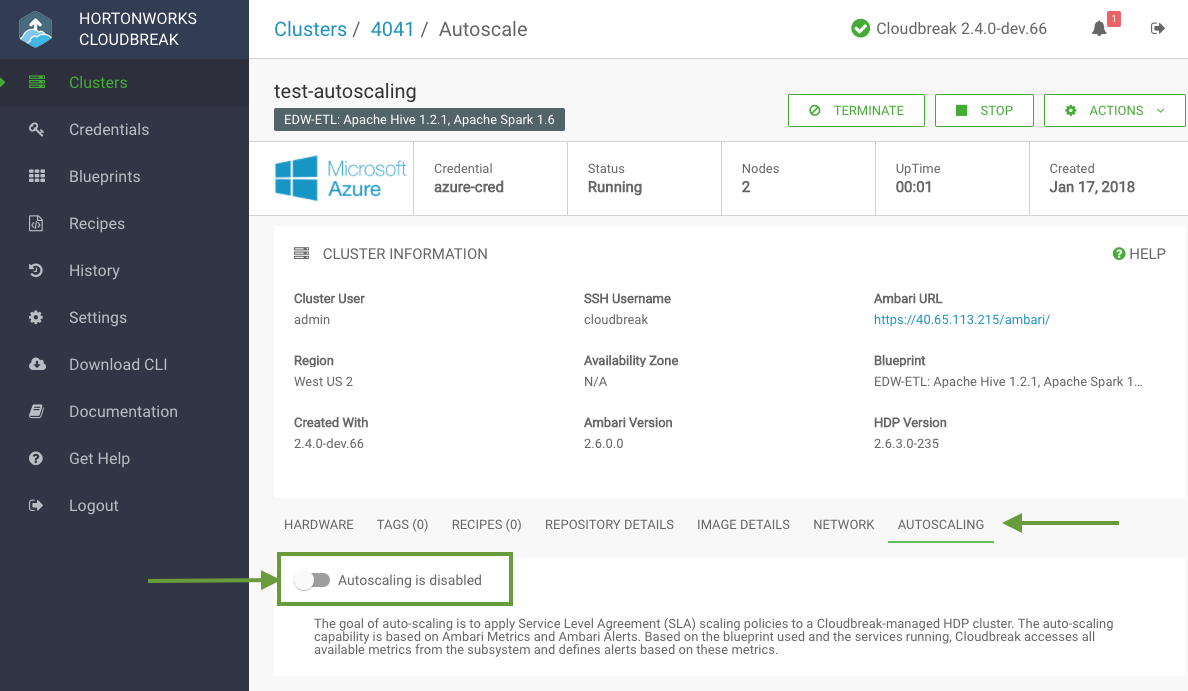
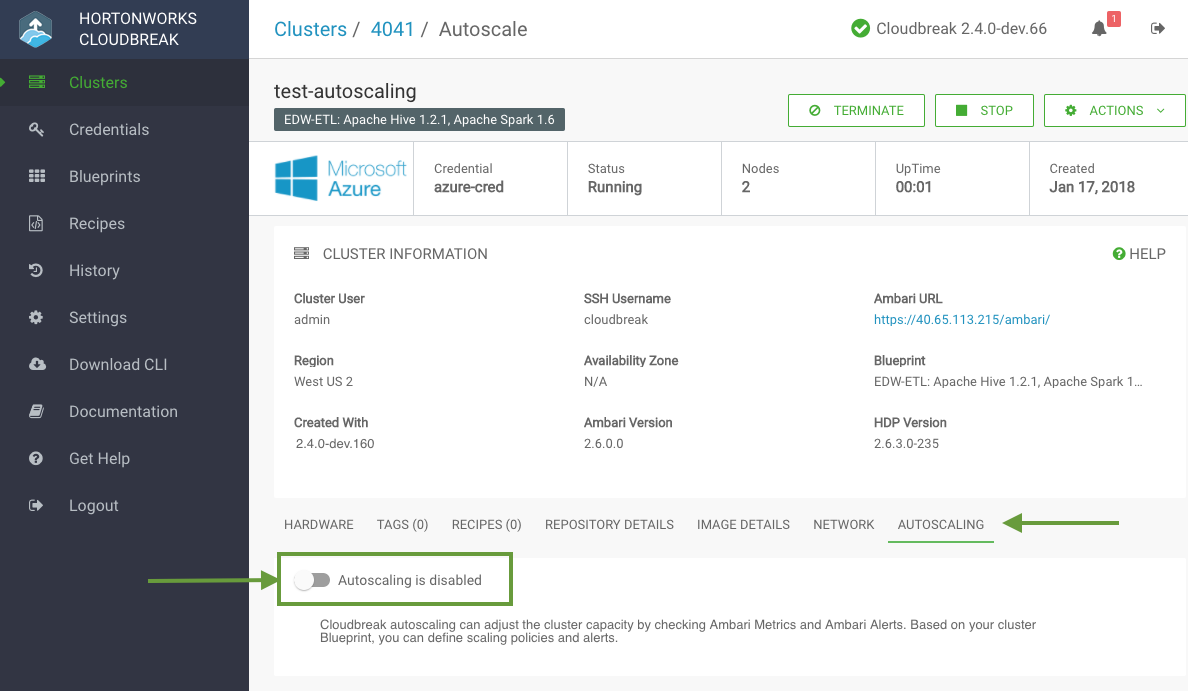
Minor autoscaling

Changed region(s): [[0.2492, 0.8813, 0.9343, 0.9421], [0.2492, 0.6382, 0.3114, 0.6686]]

diff --git a/docs/autoscaling.md b/docs/autoscaling.md
@@ -1,8 +1,8 @@
 ## Autoscaling 
 
-Autoscaling allows you to set up automatic cluster scaling based on Ambari metrics or based on time. When creating an autoscaling policy, you define:
+Autoscaling allows you to adjust cluster capacity based on Ambari metrics and alerts, as well as schedule time-based capacity adjustment. When creating an autoscaling policy, you define:
 
-* An **alert** that triggers a scaling policy.   
+* An **alert** that triggers a scaling policy. An alert can be based on an Ambari metric or can be time-based.     
 * A **scaling policy** that adds or removes a set number of nodes to a selected host group when the conditions defined in the attached alert are met.   
 
 **Metric-based Autoscaling**
@@ -11,14 +11,10 @@ Cloudbreak accesses all available Ambari metrics and allows you to define alerts
 
 | Alert Definition | Policy Definition |
 |---|---|
-| *????* alert with *CRITICAL* state for 5 minutes | Add 10 worker nodes |
-| *????* alert with *CRITICAL* state for 10 minutes | Set the number of worker nodes to 30 |
-| *????* alert with *CRITICAL* state for 15 minutes | Increase the number of worker nodes by 80% |
+| *ResourceManager CPU* alert with *CRITICAL* state for 5 minutes | Add 10 worker nodes |
+| *HDFS Capacity Utilization* alert with *WARN* state for 20 minutes | Set the number of worker nodes to 50 |
+| *Ambari Server Alerts* alert with *CRITICAL* state for 15 minutes | Decrease the number of worker nodes by 80% |
 
-
-[Comment]: <> (Need real examples)
-
-[Comment]: <> (Should we document the list of metrics or will this be something that changes?)
 
 **Time-based Autoscaling**
 
@@ -46,8 +42,9 @@ For each newly created cluster, autoscaling is disabled by default but it can be
     <a href="../images/cb-autoscaling1.png" target="_blank" title="click to enlarge"><img src="../images/cb-autoscaling1.png" width="650" title="Autoscaling in Cloudbreak UI"></a>  
       
 4. The toggle button turns green and you can see that "Autoscaling is enabled".
-5. [Define alerts](#defining-an-alert) and [scaling policies](#create-a-scaling-policy). 
+5. [Define alerts](#defining-an-alert) and [define scaling policies](#create-a-scaling-policy). 
 
+If you decide to disable autoscaling, your previously defined alerts and policies will be preserved. 
 
 ### Defining an Alert
 
@@ -58,6 +55,7 @@ After you have enabled autoscaling, define a metric-based or time-based alert.
 To create a metric-based alert, perform the following steps.  
 
 > If you would like to change default thresholds for an Ambari metric, refer to [Modifying Alerts](https://docs.hortonworks.com/HDPDocuments/Ambari-2.6.1.0/bk_ambari-operations/content/modifying_alerts.html) in Ambari documentation. 
+
 > If you would like to create a custom Ambari alert, refer to [How to Create a Custom Ambari Alert and Use it for Cloudbreak Autoscaling Policies](https://community.hortonworks.com/articles/143762/how-to-create-a-custom-ambari-alert-and-use-it-for.html).
 
 **Steps**
@@ -65,8 +63,15 @@ To create a metric-based alert, perform the following steps.
 1. [Enable autoscaling](#enable-autoscaling).  
 2. In the **Alert Configuration** section, **Metric Based** alert type should be preselected:
     <a href="../images/cb-autoscaling2.png" target="_blank" title="click to enlarge"><img src="../images/cb-autoscaling2.png" width="650" title="Autoscaling in Cloudbreak UI"></a>    
-3. Enter alert name.
-4. Choose metric type, alert status, and alert duration that should trigger a scaling action.   
+3. Provide the following information:
+
+    | Parameter | Description |
+|---|---|
+| Enter alert name | Enter a unique name for the alert. | 
+| Choose metric type | Select an Ambari metric should trigger the alert. |
+| Alert status | Select an alert type that should trigger an alert for the selected metric. One of: OK, CRITICAL, WARNING. | 
+| Alert duration | Select an alert duration that should trigger an alert. |   
+
 5. Click **+** to save the alert.  
 
 Once you have defined an alert, [create a scaling policy](#create-a-scaling-policy) that this metric should trigger.
@@ -86,10 +91,15 @@ To create a time-based alert, perform the following steps.
 1. [Enable autoscaling](#enable-autoscaling).  
 2. In the **Alert Configuration** section, select the **Time Based** alert type:  
     <a href="../images/cb-autoscaling3.png" target="_blank" title="click to enlarge"><img src="../images/cb-autoscaling3.png" width="650" title="Autoscaling in Cloudbreak UI"></a>  
-3. Enter alert name.  
-4. Select your timezone.   
-4. Enter a cron expression to define the frequency of the alert. Refer to [Cron Expression Generator](http://www.cronmaker.com/).  
-5. Click **+** to save the alert.   
+3. Provide the following information: 
+
+    | Parameter | Description |
+|---|---|
+| Enter alert name. |  Enter a unique name for the alert. | 
+| Select timezone. | Select your timezone. |   
+| Enter cron expression | Enter a cron expression to define the frequency of the alert. Refer to [Cron Expression Generator](http://www.cronmaker.com/). | 
+
+4. Click **+** to save the alert.   
 
 Once you have defined an alert, [create a scaling policy](#create-a-scaling-policy) that this metric should trigger.
 
@@ -102,16 +112,19 @@ To create a scaling policy, perform the following steps.
 
 1. [Enable autoscaling](#enable-autoscaling) and [create at least one alert](#defining-an-alert).  
 2. In the **Policy Configuration** section, provide the information required:
-    <a href="../images/cb-autoscaling4.png" target="_blank" title="click to enlarge"><img src="../images/cb-autoscaling4.png" width="650" title="Autoscaling in Cloudbreak UI"></a>   
-3. Enter a unique name for your policy.   
-4. Select one of the following actions: Add, Remove, or Set.  
-5. Enter a number defining how many or what percentage of nodes to add or remove. If the action selected is "set", this defines the number of nodes that the host group will be set to during scaling.  
-6. Select "nodes" or "percent", depending on whether you want to scale to a specific number, or percent of current number of nodes.  
-7. Select the host group to which to apply the scaling.  
-8. Select the alert based on which the scaling should be applied.   
+    <a href="../images/cb-autoscaling4.png" target="_blank" title="click to enlarge"><img src="../images/cb-autoscaling4.png" width="650" title="Autoscaling in Cloudbreak UI"></a>  
+3. Provide the following information: 
+
+    | Parameter | Description |
+|---|---| 
+| Enter policy name | Enter a unique name for the policy. | 
+| Select action | Select one of the following actions: Add (to add nodes to a host group) Remove (to delete nodes from a host group), or Set (to set the number of nodes in a host group to the chosen number). | 
+| Enter number or percentage | Enter a number defining how many or what percentage of nodes to add or remove. If the action selected is "set", this defines the number of nodes that a host group will be set to after scaling. |  
+| Select nodes of percent | Select "nodes" or "percent", depending on whether you want to scale to a specific number, or percent of current number of nodes.  |
+| Select host group | Select the host group to which to apply the scaling. | 
+| Choose an alert | Select the alert based on which the scaling should be applied. | 
 9. Click **+** to save the alert.   
 
-[Comment]: <> (Are custom metrics supported? AFAIK, yes.)
 
 
 ### Configure Autoscaling Settings 
@@ -127,7 +140,7 @@ To configure the auto scaling settings for your cluster, perform these steps.
     | Setting | Description	 | Default Value |
 |---|---|---|
 | Cooldown time  | After an auto scaling event occurs, the amount of time to wait before enforcing another scaling policy. | 30 minutes |
-| Minimum Cluster Size |	The minimum size allowed for the cluster. Auto scaling policies cannot scale the cluster below or above this size. | 3 nodes |
+| Minimum Cluster Size |	The minimum size allowed for the cluster. Auto scaling policies cannot scale the cluster below or above this size. | 2 nodes |
 | Maximum Cluster Size |	The maximum size allowed for the cluster. Auto scaling policies cannot scale the cluster below or above this size. | 100 nodes |
 
 3. Click **Save** to save the changes. 
